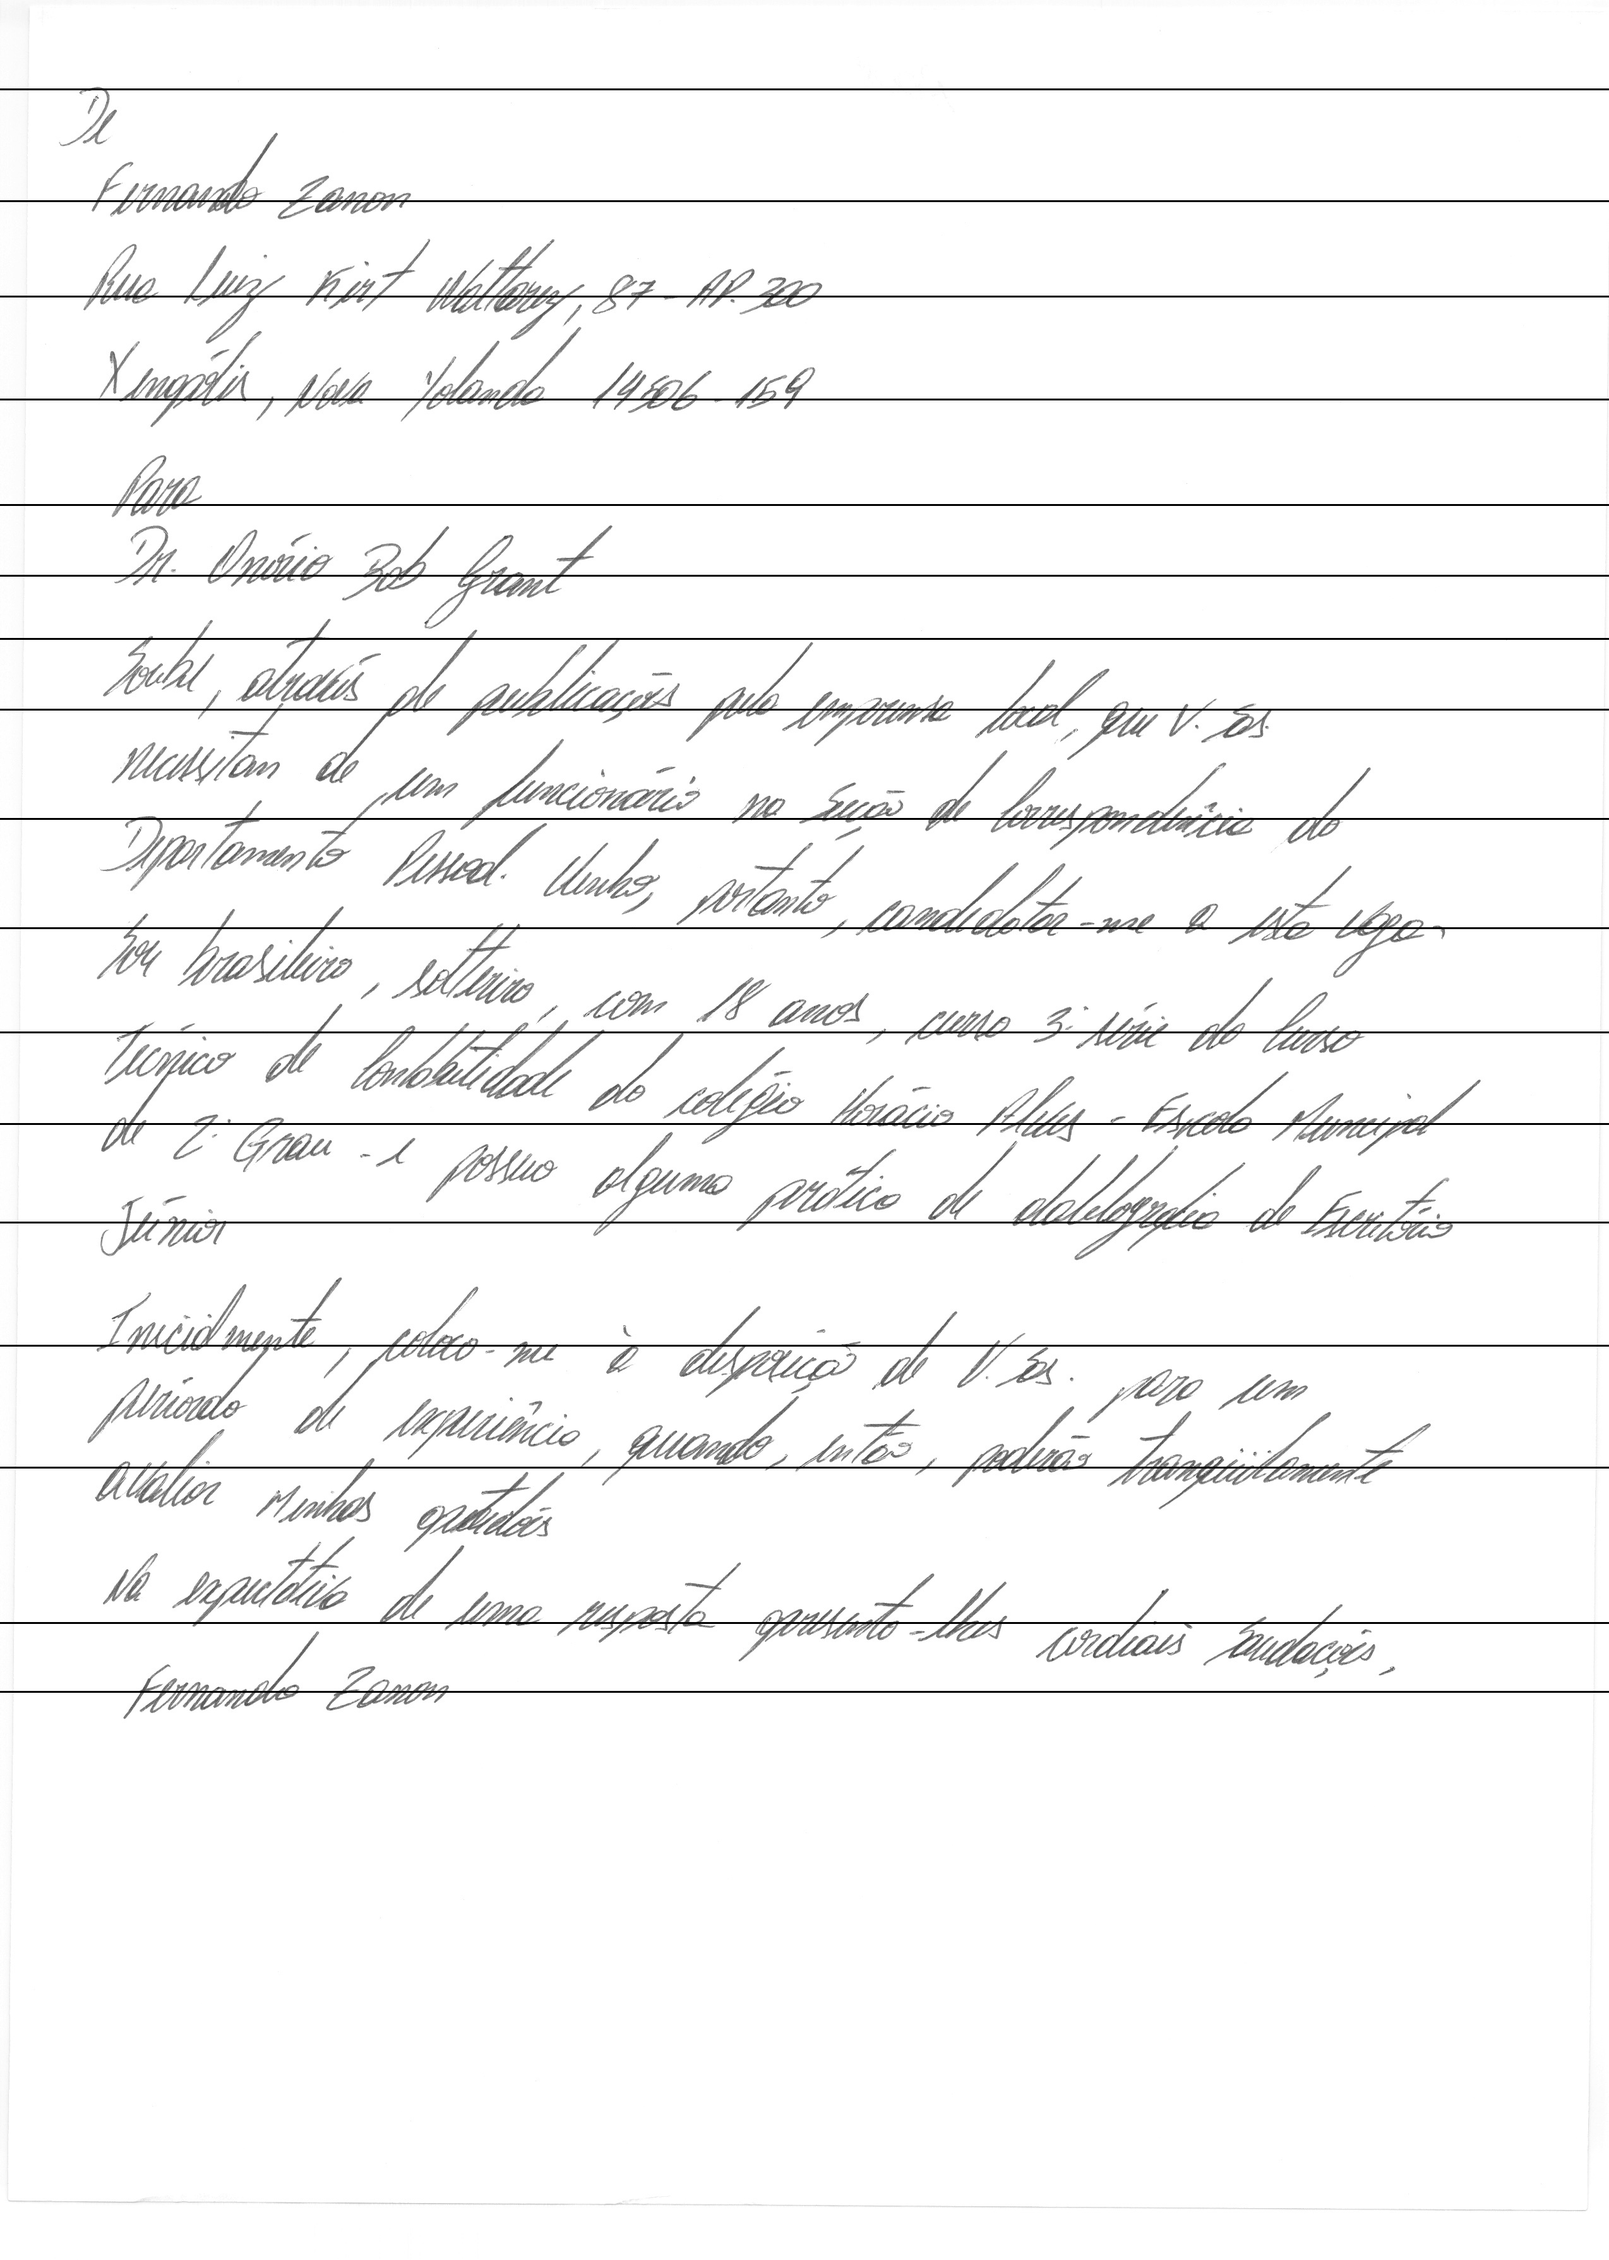
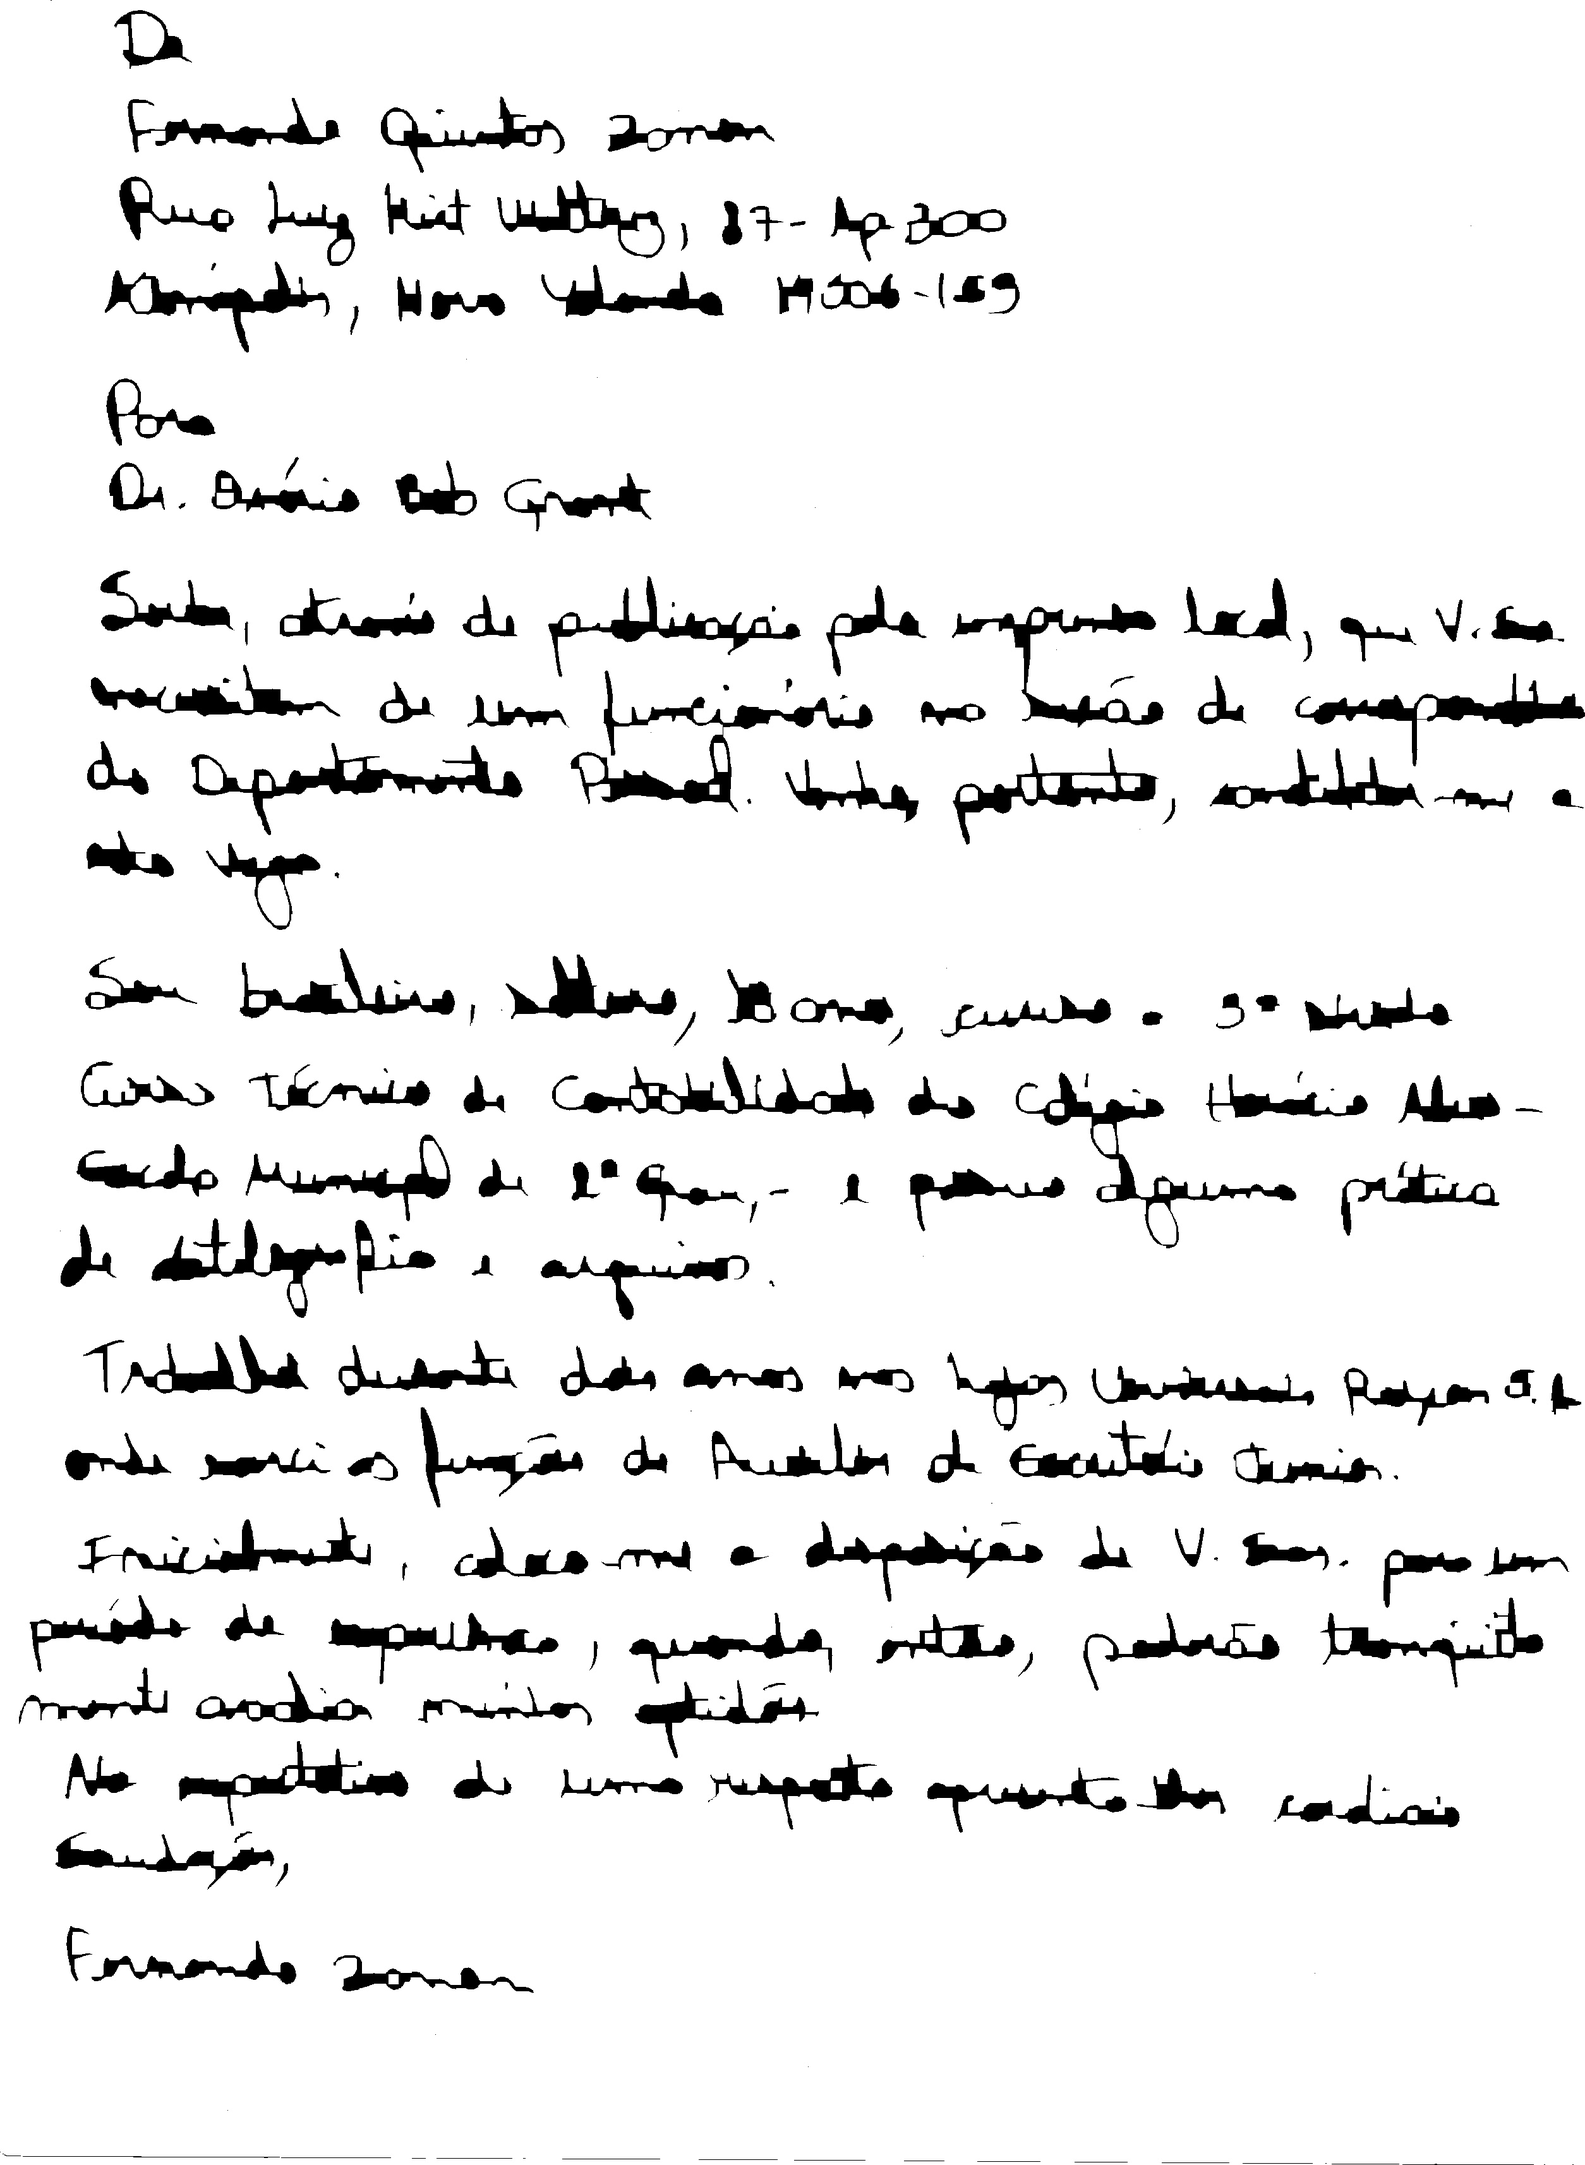
[main] Added image cropping

diff --git a/5-assignment/cartas.py b/5-assignment/cartas.py
@@ -33,21 +33,48 @@ def getImagesInfo(dir_path):
     return letters
 
 
+def getBoundIndexes(histogram):
+    init_idx = -1
+    end_idx = -1
+    size = len(histogram)
+
+    for i in range(0, size):
+        if histogram[i] > 0:
+            init_idx = i
+            break
+
+    for i in range(size-1, 0, -1):
+        if histogram[i] > 0:
+            end_idx = i
+            break
+
+    return init_idx, end_idx
+
+
+
+def cropImage(image):
+    horizontal_hist = np.sum(image, axis=0).astype(int).tolist()
+    init_h, end_h = getBoundIndexes(horizontal_hist)
+
+    vertical_hist = np.sum(image, axis=1).astype(int).tolist()
+    init_v, end_v = getBoundIndexes(vertical_hist)
+
+    cropped = image[init_v:end_v, init_h:end_h]
+    return cropped
+
+
 def getImageLines(image, idx):
     _, th2 = cv2.threshold(
         image, 0, 255, cv2.THRESH_BINARY + cv2.THRESH_OTSU)
-    th2 = cv2.bitwise_not(th2)
 
-    # M = np.float32([
-    #    [1, 0, 0],
-    #    [0, 1, 1]
-    # ])
-    #shifted = cv2.warpAffine(th2, M, (th2.shape[1], th2.shape[0]))
-    #diff = cv2.bitwise_and(th2, shifted)
-    #cv2.imwrite("./results/image0"+str(idx)+".jpg", th2)
-    #cv2.imwrite("./results/image1"+str(idx)+".jpg", dilation)
-    #cv2.imwrite("./results/image2"+str(idx)+".jpg", diff)
-    # exit(0)
+    kernel = np.ones((16, 16), np.uint8)
+    dilated = cv2.morphologyEx(th2, cv2.MORPH_OPEN, kernel)
+    dilated = cv2.bitwise_not(dilated)
+
+    cropped = cropImage(dilated)
+    cropped = cv2.bitwise_not(cropped)
+    cv2.imwrite("./results/image"+str(idx)+".jpg", cropped)
+
 
     # Gets hist on y-axis
     line_sum = np.sum(th2, axis=1).astype(int).tolist()
@@ -67,9 +94,9 @@ def getImageLines(image, idx):
     peaksPos = peaksPos.tolist()
     peaksPos.pop()
 
-    print("\n\nBefore, After, average, median, std, var")
-    print(len(peaksPos), len(peaksPos), avg_hist,
-          median_hist, dvt_hist, var_hist)
+    # print("\n\nBefore, After, average, median, std, var")
+    # print(len(peaksPos), len(peaksPos), avg_hist,
+    #       median_hist, dvt_hist, var_hist)
 
     height, width = image.shape
     for j in range(height):
@@ -77,7 +104,7 @@ def getImageLines(image, idx):
             for i in range(width):
                 image[j][i] = 0
 
-    cv2.imwrite("./results/image"+str(idx)+".jpg", image)
+    #cv2.imwrite("./results/image"+str(idx)+".jpg", image)
 
     # plt.plot(line_sum)
     # plt.plot(peaksPos, line_sum[peaksPos], "x")
